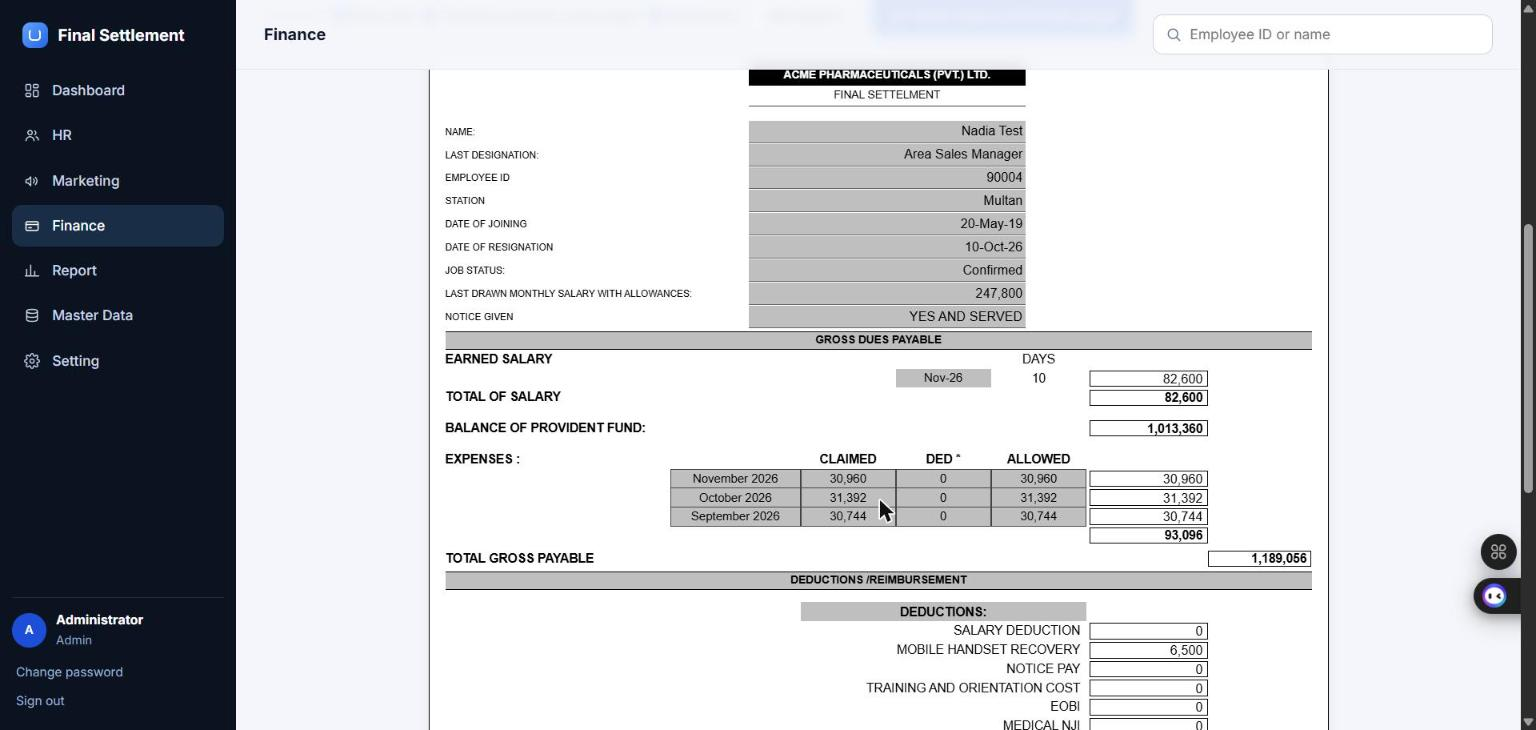
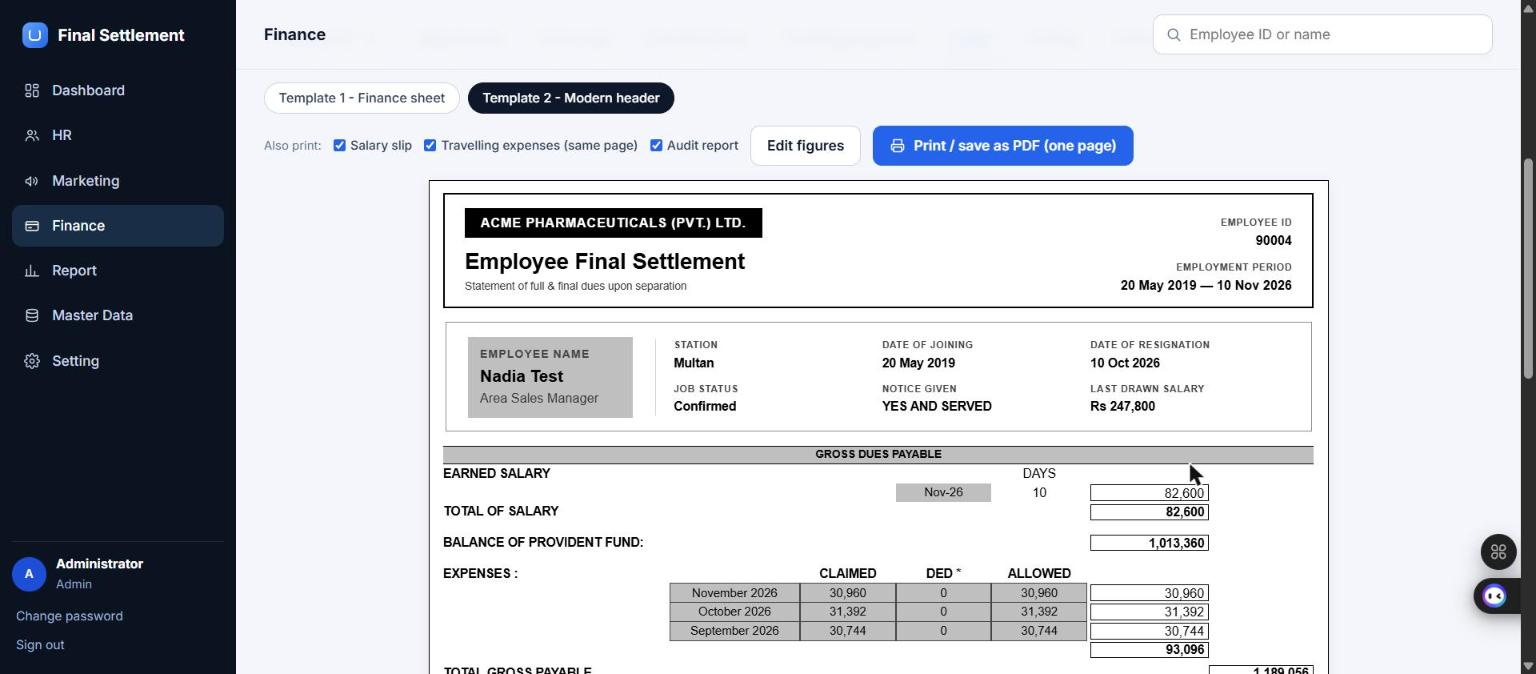
README: show the modern-header letter template in the screenshot

diff --git a/README.md b/README.md
@@ -7,7 +7,7 @@ engine works out the dues (salary, provident fund, travelling expenses, deductio
 
 ![Settlement with checks](docs/screenshots/2-settlement.jpg)
 
-![Printable letter](docs/screenshots/3-letter.jpg)
+![Printable letter (Template 2, modern header)](docs/screenshots/3-letter.jpg)
 
 ![Master Data](docs/screenshots/4-master-data.jpg)
 
